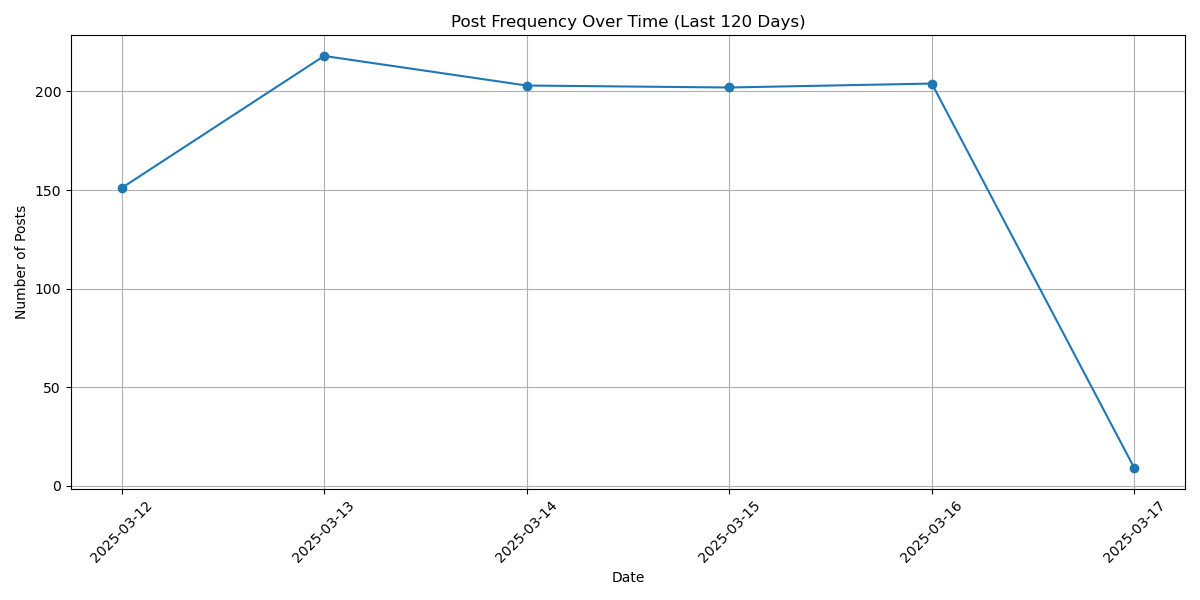
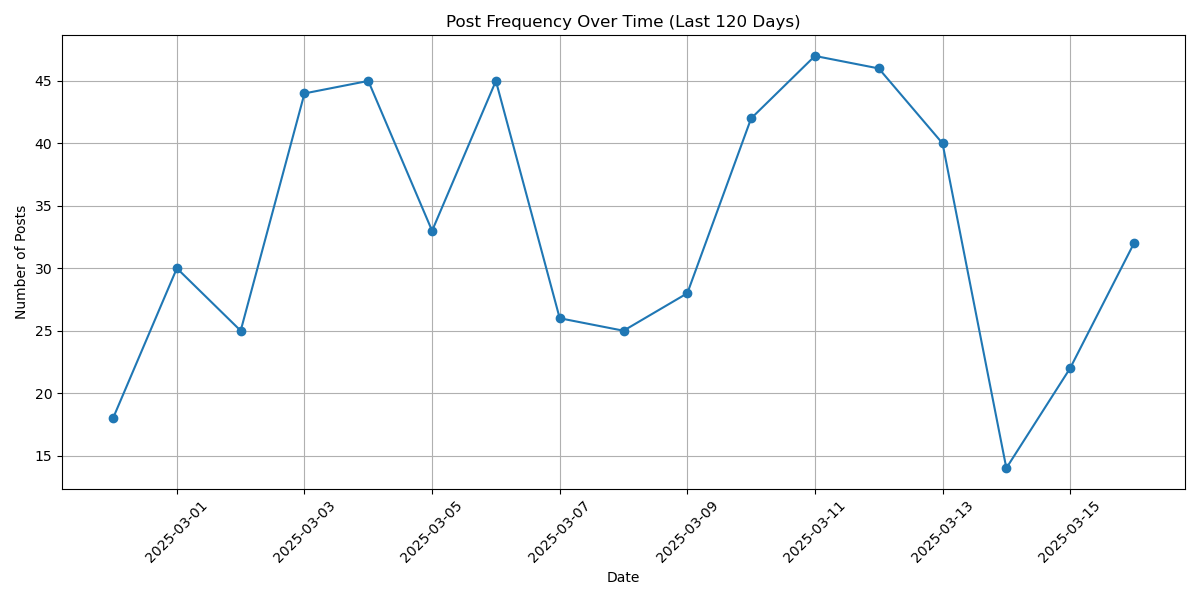
committed

diff --git a/streamlit_app/reddit_analysis.py b/streamlit_app/reddit_analysis.py
@@ -28,15 +28,20 @@ except Exception as e:
     st.stop()
 
 # Load secrets from Streamlit Cloud
-api_key = st.secrets["API_KEY"]  # Ensure this is set in Streamlit secrets with your key
-reddit_client_id = st.secrets["reddit_client_id"]
-reddit_client_secret = st.secrets["reddit_client_secret"]
-reddit_user_agent = st.secrets["reddit_user_agent"]
+try:
+    api_key = st.secrets["API_KEY"]  # Your new Gemini 2.0 Flash API key
+    reddit_client_id = st.secrets["reddit_client_id"]
+    reddit_client_secret = st.secrets["reddit_client_secret"]
+    reddit_user_agent = st.secrets["reddit_user_agent"]
+except KeyError as e:
+    st.error(f"Missing secret: {e}. Check Streamlit Cloud secrets configuration.")
+    st.stop()
 
 if not all([api_key, reddit_client_id, reddit_client_secret, reddit_user_agent]):
     st.error("Missing secrets. Check Streamlit Cloud secrets configuration.")
     st.stop()
 
+# Updated API URL for Gemini 2.0 Flash
 API_URL = f'https://generativelanguage.googleapis.com/v1beta/models/gemini-2.0-flash:generateContent?key={api_key}'
 
 # Initialize Reddit API client
@@ -269,36 +274,42 @@ def get_statistics(posts):
         'avg_post_length': df['body'].apply(len).mean()
     }
 
-# Gemini API response with enhanced debugging and timeout
+# Gemini API response with enhanced debugging
 def get_gemini_response(user_input, context):
+    st.write("DEBUG: Entering get_gemini_response")  # Debug entry
     headers = {'Content-Type': 'application/json'}
     prompt = f"Context: {context}\n\nQuestion: {user_input}\n\nAnswer clearly."
     data = {"contents": [{"parts": [{"text": prompt}]}]}
+    st.write("DEBUG: Sending request with prompt:", prompt[:100] + "...")  # Truncate for readability
     try:
-        # Add timeout to prevent hanging
         response = requests.post(API_URL, headers=headers, json=data, timeout=10)
-        st.write(f"API Request Status: {response.status_code}")  # Debug: Show status code
+        st.write("DEBUG: Response status code:", response.status_code)
         if response.status_code == 200:
             result = response.json()
-            st.write("API Response:", result)  # Debug: Show full response
-            return result['candidates'][0]['content']['parts'][0]['text']
+            st.write("DEBUG: Full API response:", result)
+            try:
+                text = result['candidates'][0]['content']['parts'][0]['text']
+                st.write("DEBUG: Extracted response text:", text[:100] + "...")
+                return text
+            except KeyError as e:
+                st.error(f"Parsing Error: {e} - Response format may have changed for Gemini 2.0 Flash")
+                return f"Error: Unable to parse response - {str(e)}"
         else:
-            st.error(f"API Returned Status {response.status_code}: {response.text}")
+            st.error(f"API Error: Status {response.status_code} - {response.text}")
             return f"Error: API returned status {response.status_code}"
     except requests.exceptions.Timeout:
         st.error("API request timed out after 10 seconds.")
-        return "Error: API request timed out."
+        return "Error: API timed out"
     except requests.exceptions.RequestException as e:
         st.error(f"API Request Failed: {e}")
         if hasattr(e, 'response') and e.response is not None:
-            st.write("Error Details:", e.response.text)
-        return f"Error: Failed to connect to Gemini API - {str(e)}"
-    except KeyError as e:
-        st.error(f"API Response Parsing Error: {e}")
-        return f"Error: Unexpected response format - {str(e)}"
+            st.write("DEBUG: Error response content:", e.response.text)
+        return f"Error: API request failed - {str(e)}"
     except Exception as e:
-        st.error(f"Unexpected Error in Gemini API Call: {e}")
+        st.error(f"Unexpected Error: {e}")
         return f"Error: {str(e)}"
+    finally:
+        st.write("DEBUG: Exiting get_gemini_response")  # Debug exit
 
 # Main app
 def main():
@@ -347,21 +358,25 @@ def main():
 
     viz_context = context_base + f"Current Visualization: {selected_viz}."
     if st.button("💬 Chat about this"):
+        st.write("DEBUG: Chat button clicked")  # Debug button
         with st.expander("Chat with Gemini", expanded=True):
-            chat_key = f"chat_history_{selected_viz}_{selected_subreddit}"
-            if chat_key not in st.session_state:
-                st.session_state[chat_key] = []
+            st.write("DEBUG: Expander opened")  # Debug expander
+            if 'chat_history' not in st.session_state:
+                st.session_state.chat_history = []
             user_input = st.chat_input(f"Ask about {selected_viz} in {selected_subreddit}")
             if user_input:
+                st.write("DEBUG: User input received:", user_input)  # Debug input
                 with st.spinner("Getting response from Gemini..."):
-                    st.session_state[chat_key].append({"role": "user", "text": user_input})
                     response = get_gemini_response(user_input, viz_context)
-                    st.session_state[chat_key].append({"role": "assistant", "text": response})
-                    # Force a rerun to ensure chat updates
-                    st.rerun()
-            for message in st.session_state[chat_key]:
-                with st.chat_message(message["role"]):
-                    st.write(message["text"])
+                    st.session_state.chat_history.append({"role": "user", "text": user_input})
+                    st.session_state.chat_history.append({"role": "assistant", "text": response})
+            if st.session_state.chat_history:
+                st.write("DEBUG: Displaying chat history")  # Debug chat display
+                for message in st.session_state.chat_history:
+                    with st.chat_message(message["role"]):
+                        st.write(message["text"])
+            else:
+                st.write("DEBUG: No chat history yet")  # Debug empty state
 
 if __name__ == "__main__":
     main()

diff --git a/app/app.py b/app/app.py
@@ -27,7 +27,7 @@ reddit_client_id = os.getenv('REDDIT_CLIENT_ID')
 reddit_client_secret = os.getenv('REDDIT_CLIENT_SECRET')
 reddit_user_agent = os.getenv('REDDIT_USER_AGENT')
 
-API_URL = f'https://generativelanguage.googleapis.com/v1beta/models/gemini-1.5-flash:generateContent?key={api_key}'
+API_URL = f'https://generativelanguage.googleapis.com/v1beta/models/gemini-2.0-flash:generateContent?key={api_key}'
 
 # Initialize Reddit API client
 reddit = praw.Reddit(
@@ -83,7 +83,7 @@ def create_subreddit_db(subreddit):
         conn.close()
 
 # Fetch posts from Reddit API for the last 120 days
-def fetch_subreddit_posts(subreddit, days_ago=120):
+def fetch_subreddit_posts(subreddit, days_ago=30):
     try:
         sub = reddit.subreddit(subreddit[2:])  # Remove 'r/' prefix
         posts = []
